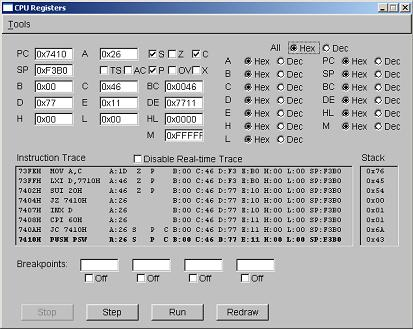
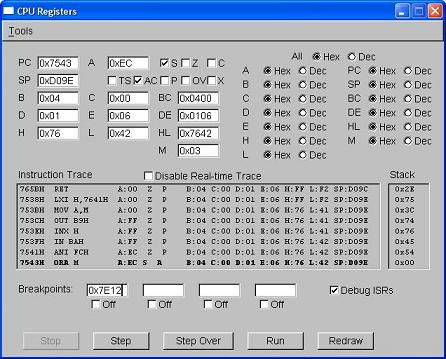
Updates for Step over and ISR functionality.

diff --git a/doc/tools.html b/doc/tools.html
@@ -28,8 +28,11 @@ while the CPU is executing.  To enable editing of CPU registers, use the Stop pu
 to halt the CPU emulation and activate the edit fields.
 
 <p>In addition to displaying CPU registers, the dialog provides limited debug capability 
-and a disassembly window.  The debug features consist of Stop, Step and Run buttons and
-four edit fields for specifying debug breakpoints and enabling and disabling them.
+and a disassembly window.  The debug features consist of Stop, Step Step Over and Run buttons and
+four edit fields for specifying debug breakpoints and enabling and disabling them.  Also,
+the debugger can be configured to ignore ISR debugging which will prevent single step operations
+from stepping into an interrupt handler.  The ISR will be allowed to complete before the single
+step operation is considered complete.
 <p>
 <img src="cpu_regs.jpg">
 
